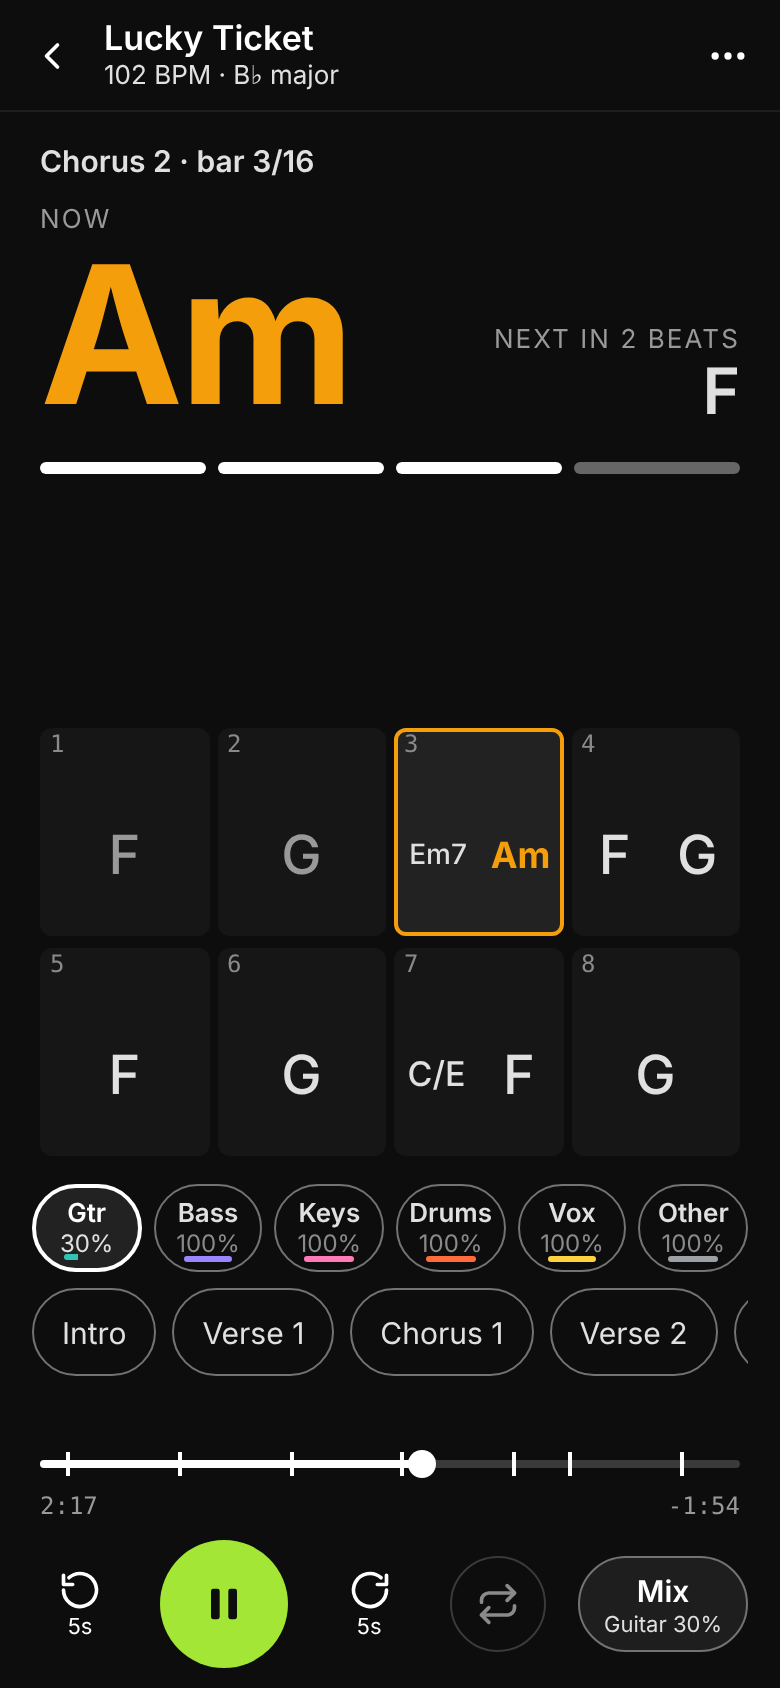
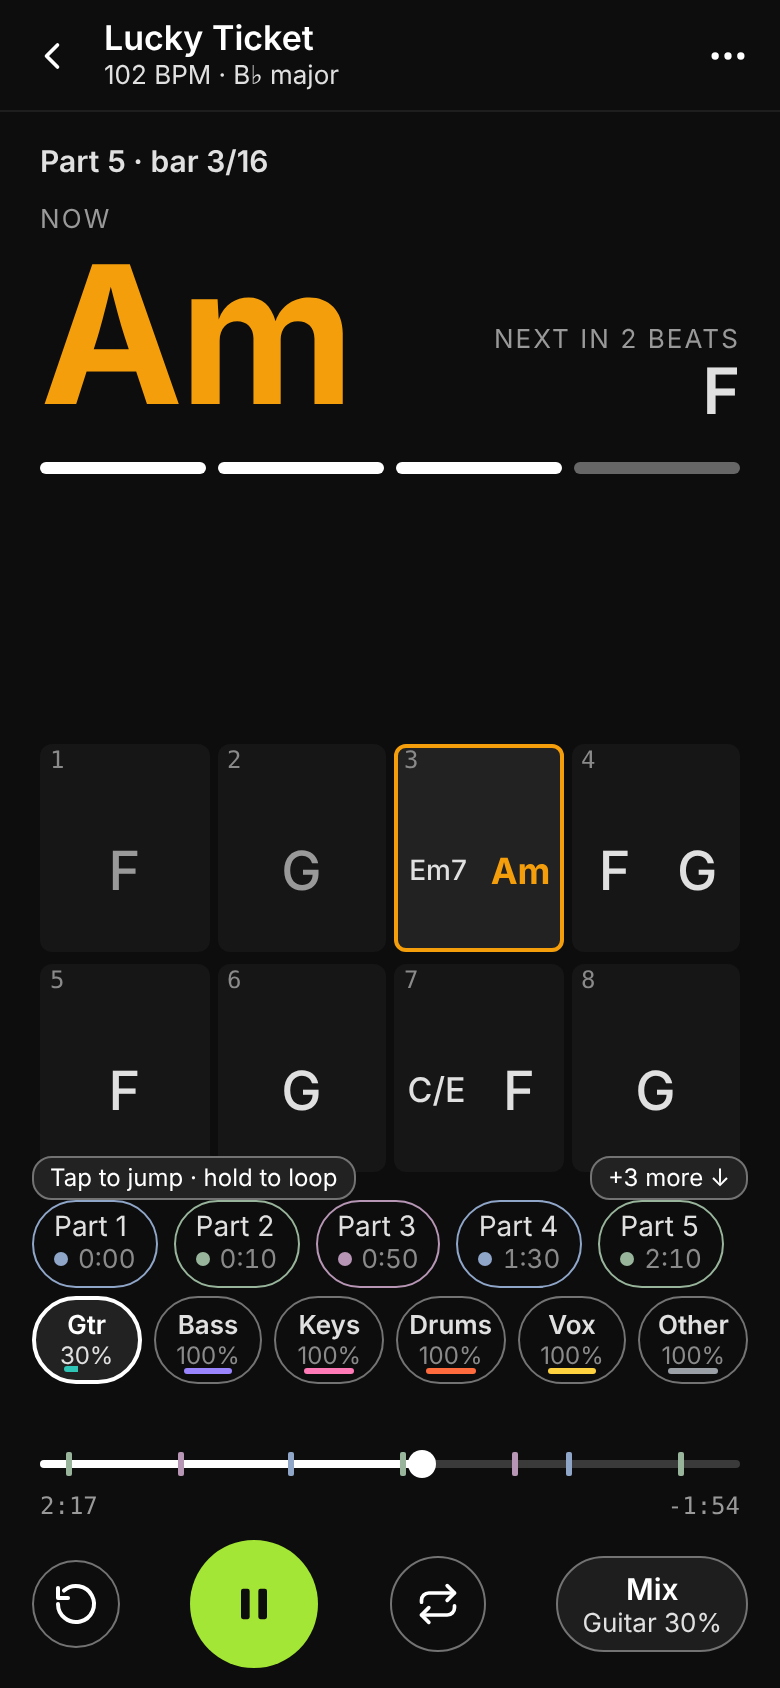
fix(player): PR #331 r2 delta — first-run hint above the strip, Mixer-state never-silent tests, fresh screenshots
- M-1: "Tap to jump · hold to loop" is drawn on the section strip's top edge
  (SectionLoop firstHint), above the chips and clear of the pills, instead of
  the seek readout under the pills (where hold = solo). No stage height cost.
  DOM test and section-strip-fit assert it is above the chips/pills and never
  overlaps the cue.
- M-2: never-silent tests now start from Mixer-made states: all 24,576
  gestures over every 3-stem state (gain 0/.3/.55/1 x mute x solo), a seeded
  six-stem random walk mixing Mixer changes with pill gestures, and one case
  per guard branch, all against an oracle independent of audible().
- L-1: screenshots regenerated for the current layout (degraded shots now show
  the notice bar); stale loopsHref doc comment fixed.

Claude-Session: https://claude.ai/code/session_01JqS8BYYATzcpjb5famM7U8

diff --git a/apps/web/src/components/play/PlayerScreen.tsx b/apps/web/src/components/play/PlayerScreen.tsx
@@ -243,8 +243,10 @@ export function PlayerScreen(props: ScreenProps) {
   const band = runOn ? snapshot.loop : null;
   // ⟲ back to the start of this section (the loop's start while looping); play state is kept.
   const onRestart = () => onSeek(restartTarget(sections, runOn ? snapshot.loop : null, snapshot.positionSec));
-  // The first-use hint sits in the seek line's readout slot (empty while nothing
-  // loops), so it costs the chord stage no height; the run hint stays under the strip.
+  // The first-use hint is drawn on the strip's top edge (SectionLoop firstHint),
+  // above the chips, so it costs the chord stage no height and never sits next
+  // to the "my part" pills (where "hold" solos: PR #331 r2 M-1). The run hint
+  // stays under the strip.
   const firstHint = !stripHintSeen && sections.length > 0 ? STRIP_HINT : '';
 
   // ── the mix (P1.3) ─────────────────────────────────────────────────────────
@@ -557,6 +559,7 @@ export function PlayerScreen(props: ScreenProps) {
                 onTap={onTap}
                 onLongPress={onLongPress}
                 hint={hint && runOn ? RUN_HINT : null}
+                firstHint={firstHint || null}
               />
               {/* Phase A D5: lower, mute and solo a part in one tap/hold, chords still on screen.
                   Below the section strip, just above the transport: the strip's "+N more"
@@ -573,7 +576,7 @@ export function PlayerScreen(props: ScreenProps) {
                 tickTones={tones.slice(1)}
                 onRestart={onRestart}
                 loopBand={band}
-                loopText={runReadout(names, sections, shown) || firstHint}
+                loopText={runReadout(names, sections, shown)}
                 loopState={sections.length === 0 ? 'disabled' : shown.on ? 'on' : 'off'}
                 onToggleLoop={onToggleLoop}
                 mix={

diff --git a/apps/web/src/components/play/SectionLoop.tsx b/apps/web/src/components/play/SectionLoop.tsx
@@ -46,6 +46,13 @@ export interface SectionStripProps {
   readonly onLongPress: (i: number) => void;
   /** A line under the strip (STRIP_HINT or RUN_HINT), or nothing. */
   readonly hint?: string | null;
+  /**
+   * The first-run line ("Tap to jump · hold to loop") drawn on the strip's TOP
+   * edge, left, like the "+N more" cue on the right: it names the chips, sits
+   * above them (never next to or under the "my part" pills, where "hold" means
+   * solo), and costs the chord stage no height (PR #331 r2 M-1).
+   */
+  readonly firstHint?: string | null;
 }
 
 /** How many chips sit outside the strip's visible box, above and below (the "+N" cue). */
@@ -100,7 +107,7 @@ export function scrollChipIntoList(list: HTMLElement, chip: HTMLElement): void {
  * and the click that follows its release is SWALLOWED, or the release would
  * read as a tap and stop the loop it just started.
  */
-export function SectionLoop({ names, times, tones, current = -1, state, onTap, onLongPress, hint = null }: SectionStripProps) {
+export function SectionLoop({ names, times, tones, current = -1, state, onTap, onLongPress, hint = null, firstHint = null }: SectionStripProps) {
   const timer = useRef<ReturnType<typeof setTimeout> | null>(null);
   const start = useRef<{ x: number; y: number } | null>(null);
   const swallow = useRef(false);
@@ -247,6 +254,11 @@ export function SectionLoop({ names, times, tones, current = -1, state, onTap, o
             );
           })}
         </div>
+        {firstHint ? (
+          <span className={styles.first} data-testid="section-first-hint">
+            {firstHint}
+          </span>
+        ) : null}
         {overflowText(overflow) ? (
           // Not a control (swipe the strip; every chip is in the tab order), so it
           // is hidden from assistive tech, which reaches every chip anyway.

diff --git a/apps/web/src/components/play/SectionLoop.module.css b/apps/web/src/components/play/SectionLoop.module.css
@@ -126,6 +126,26 @@
   pointer-events: none;
 }
 
+/* The first-run line, on the strip's top edge at the LEFT (the cue is right):
+   over the bottom of the chord stage, like the cue, so it takes no height. */
+.first {
+  position: absolute;
+  left: 0;
+  top: -18px;
+  max-width: calc(100% - 96px);
+  padding: 2px 8px;
+  border-radius: 10px;
+  font-size: 12px;
+  line-height: 16px;
+  white-space: nowrap;
+  overflow: hidden;
+  text-overflow: ellipsis;
+  color: var(--text-primary);
+  background: var(--bg-selected);
+  border: 1px solid var(--border-control);
+  pointer-events: none;
+}
+
 /* Phones (up to 430px wide): the time goes under the name, so four chips fit
    a row at 360-430px (review B1 on #330: at 390px "Part N · m:ss" in one
    line fitted three, and a 7-part song lost a chip off the second row). */

diff --git a/apps/web/src/components/play/Player.tsx b/apps/web/src/components/play/Player.tsx
@@ -722,7 +722,7 @@ export interface PlayerViewProps {
   readonly back?: { readonly href: string; readonly label: string };
   /** Extra Song info lines (the trim note, when the song is deleted). */
   readonly songInfo?: readonly string[];
-  /** "Download loops" in the ⋯ menu; omitted when null. */
+  /** No longer rendered (Phase A Story 9: the player does not link to the loops product); kept so JobView can still pass it. */
   readonly loopsHref?: string | null;
   /**
    * When set, the back arrow calls this instead of following `back.href` (the href is
